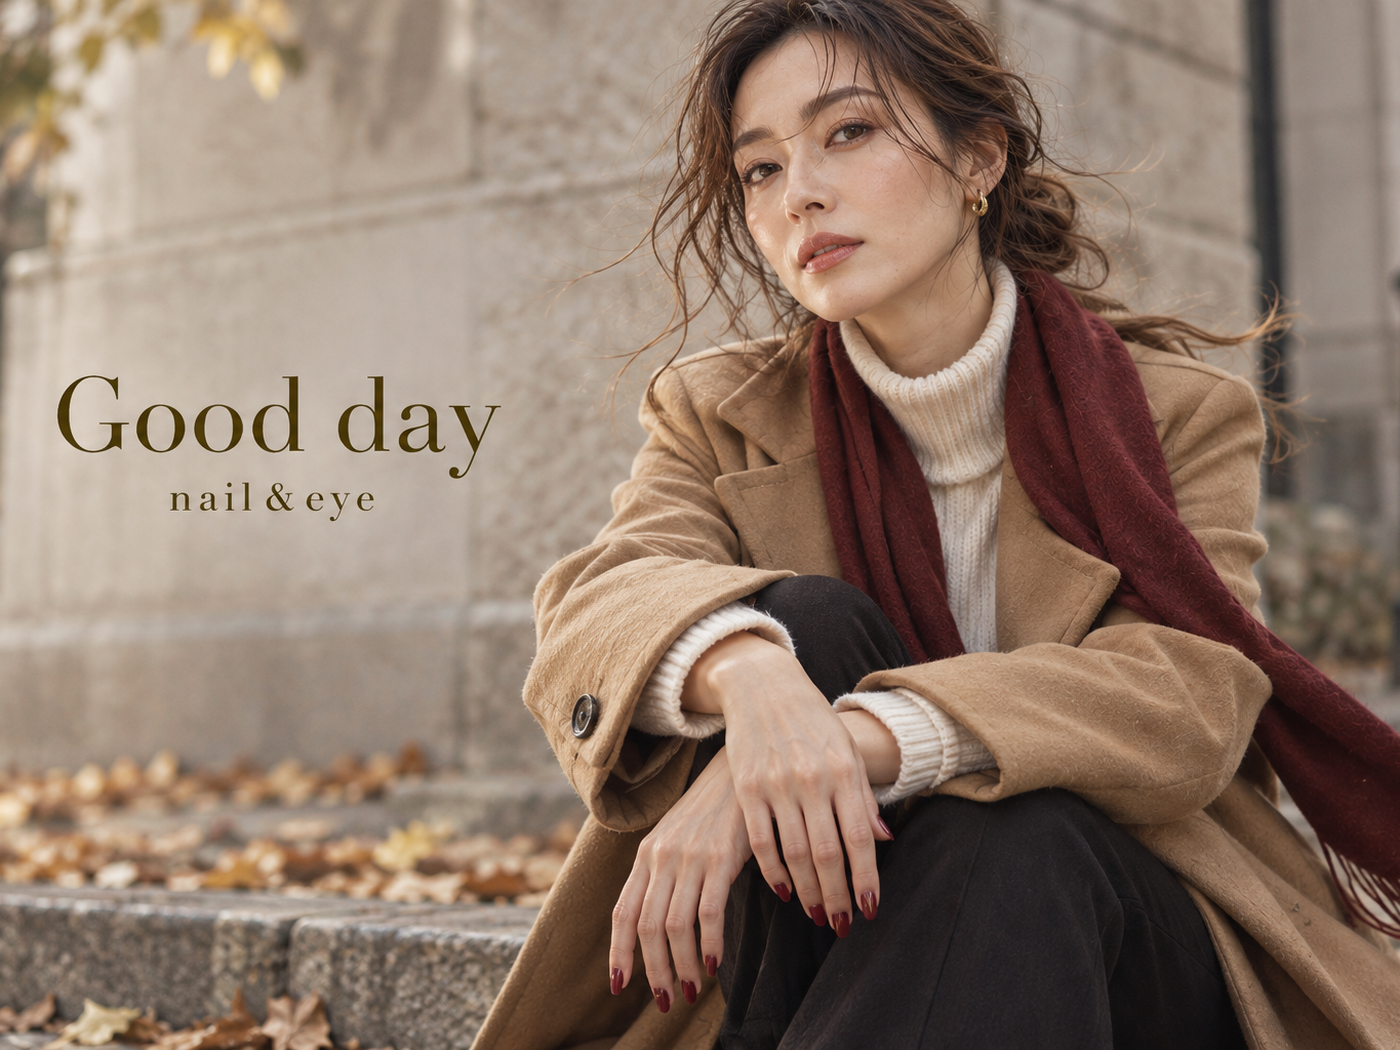
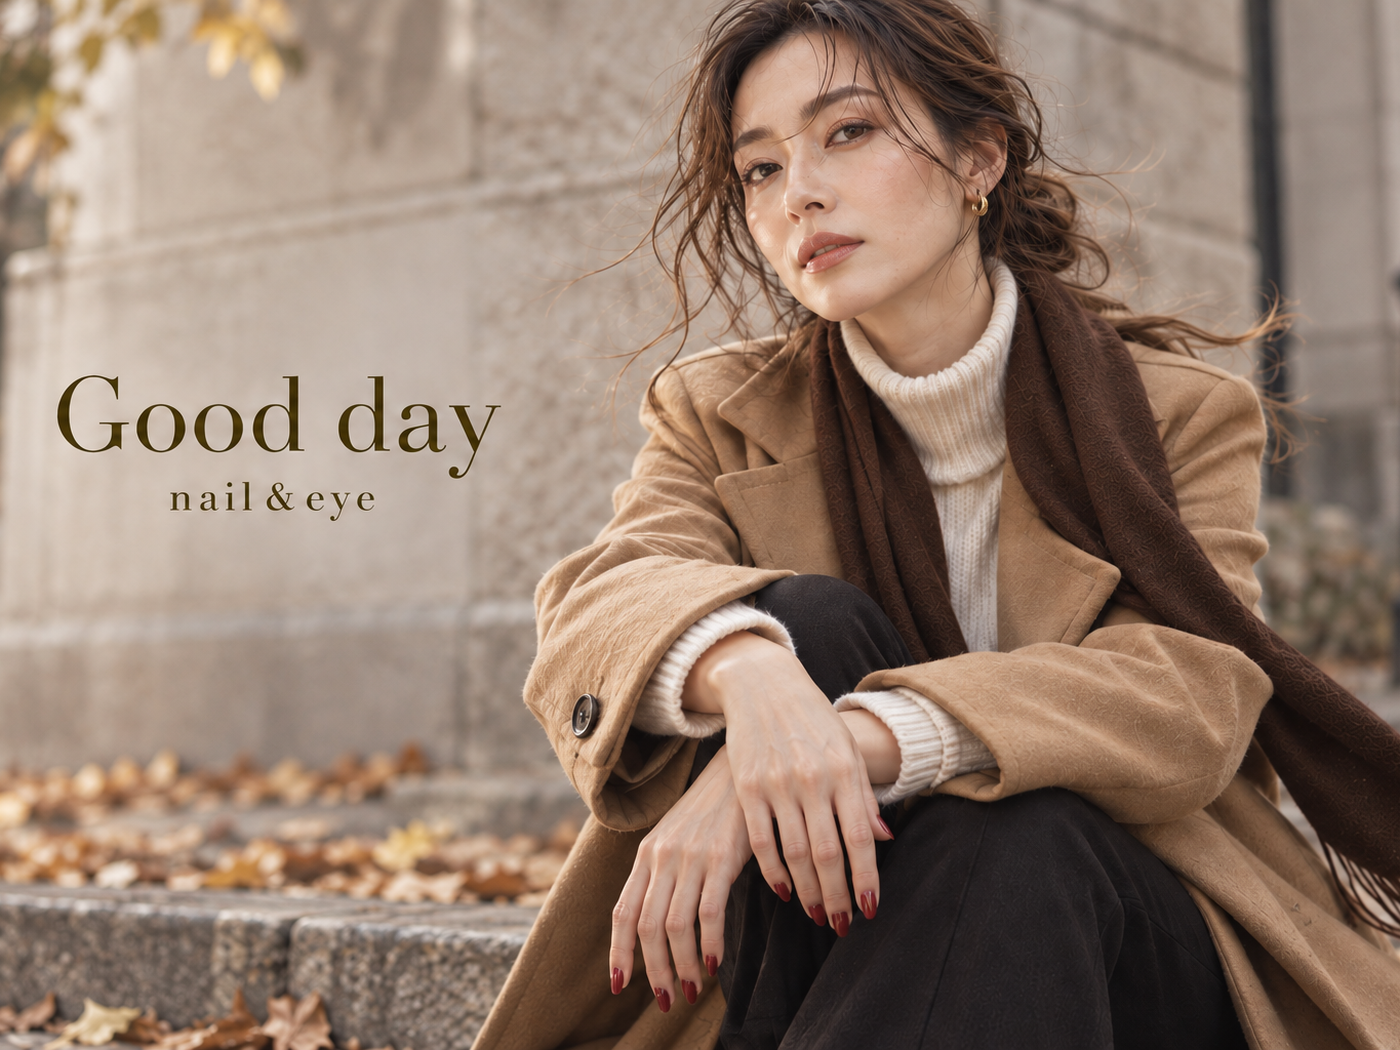
Change November key visual stole to chocolate brown to separate it from wine nails

diff --git a/index.html b/index.html
@@ -110,7 +110,7 @@
     <div class="grid wide">
       <figure>
         <img src="2026-11/01_hero/hero.png" alt="キービジュアル確定版">
-        <figcaption>確定版：石畳の広場で肩越しに振り返る・キャメルのコートとワインレッドのストール（作り直し3回目A案）</figcaption>
+        <figcaption>確定版：石畳の広場で肩越しに振り返る・キャメルのコートとチョコレートブラウンのストール（作り直し3回目A案）</figcaption>
       </figure>
     </div>
   </section>
